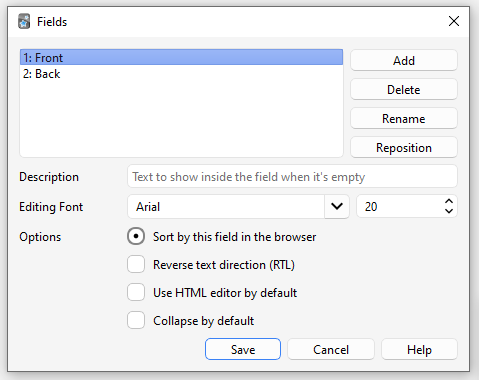
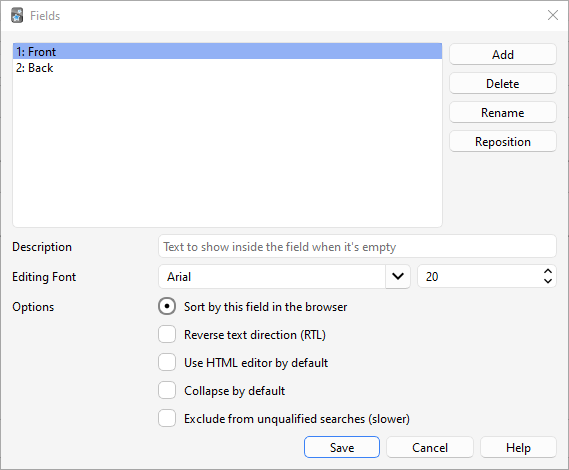
Some updates to 2.1.61, and other minor corrections.  (#134)
* Update getting-started.md

These basic definitions from stats.md should be here. Changed the old "unseen cards for "new cards".

* lists

* This section goes to getting-started#key concepts

* Add files via upload

* Added three screenshots

* mc

* simplifying and eliminating redundancies

* Add files via upload

* Add files via upload

* added some ss, eliminated redundancies, mc

* Add files via upload

* added ss, interçnal links and missing options.

* some internal links

* Add files via upload

* Update studying.md

The overview screen now shows how many cards will be buried.
https://github.com/ankitects/anki/releases/tag/2.1.50

* Add files via upload

Substitute with the same example deck

* Update studying.md

https://github.com/ankitects/anki/commit/2221d0a5206e61f36b618e957873508f493a487e

* Update src/getting-started.md

* Update src/studying.md

* mc

* 2.1.61 - New option

Moving the old text to a separate section makes sense now that this feature is optional. The link on the info box should also be updated.

* 2.1.61 - Buryng

https://github.com/ankitects/anki/releases/tag/2.1.61
Just copied the text on the info boxes here. Having this text also in the manual makes (IMO) sense because it's searchable, linkable and just helps to make the manual more comprehensive.

* 2.1.61 Updated screen

https://github.com/ankitects/anki/releases/tag/2.1.61

* 2.1.61 new option

https://github.com/ankitects/anki/commit/946eb468133af75e6ace83da8e2eeb701654a15b
[…]

diff --git a/src/deck-options.md b/src/deck-options.md
@@ -115,16 +115,6 @@ your review burden decreases. More than one Anki user has excitedly studied
 hundreds of new cards over their first few days of using the program, and then
 become overwhelmed by the reviews required.
 
-If using [the v3 scheduler](https://faqs.ankiweb.net/the-2021-scheduler.html#daily-limits),
-please keep in mind that the new count is capped by the review count. If your
-review limit is set to 200, and you have 190 reviews waiting, a maximum of 10
-new cards will be introduced. If your review limit has been reached, no new
-cards will be shown. If you have a backlog of reviews and still want to
-introduce new cards, you can do so by suspending the reviews, or increasing your
-review limit. That said, it is recommended you hold off on new cards until you
-catch up instead, as introducing more new cards when you're behind will only
-make the backlog worse.
-
 ### Maximum Reviews/Day
 
 Allows you to set an upper limit on the number of reviews to show each day.
@@ -144,6 +134,22 @@ limits on its parents or child decks are ignored.
 
 The v3 scheduler includes learning cards with a 1+ day delay in the review count,
 so those learning cards will be subject to the daily limit.
+
+### New cards ignore review limit
+
+If using [the v3 scheduler](https://faqs.ankiweb.net/the-2021-scheduler.html#daily-limits),
+please keep in mind that the new count is capped by the review count by default. If your
+review limit is set to 200, and you have 190 reviews waiting, a maximum of 10
+new cards will be introduced. If your review limit has been reached, no new
+cards will be shown. If you have a backlog of reviews and still want to
+introduce new cards, you can do so by suspending the reviews, or increasing your
+review limit. That said, it is recommended you hold off on new cards until you
+catch up instead, as introducing more new cards when you're behind will only
+make the backlog worse.
+
+From Anki 2.1.61 this feature is optional, and can be deactivated globally from the 
+deck options screen. 
+
 
 ### Per-Deck Daily Limits
 
@@ -370,8 +376,32 @@ of seconds you're taking to review each card.
 
 ## Burying
 
-Please see [this section](./studying.md#siblings-and-burying) for more information.
+### Bury new siblings
+Whether other new cards of the same note (eg reverse cards, adjacent cloze deletions) will be delayed until the next day.
 
+When Anki gathers cards, it first gathers intraday learning cards, then interday learning cards, then reviews, and finally new cards. This affects how burying works:
+
+- If you have all burying options enabled, the sibling that comes earliest in that list will be shown. For example, a review card will be shown in preference to a new card.
+- Siblings later in the list can not bury earlier card types. For example, if you disable burying of new cards, and study a new card, it will not bury any interday learning or review cards, and you may see both a review sibling and new sibling in the same session.
+
+### Bury review siblings
+Whether other review cards of the same note will be delayed until the next day.
+
+When Anki gathers cards, it first gathers intraday learning cards, then interday learning cards, then reviews, and finally new cards. This affects how burying works:
+
+- If you have all burying options enabled, the sibling that comes earliest in that list will be shown. For example, a review card will be shown in preference to a new card.
+- Siblings later in the list can not bury earlier card types. For example, if you disable burying of new cards, and study a new card, it will not bury any interday learning or review cards, and you may see both a review sibling and new sibling in the same session.
+
+### Bury interday learning siblings
+Whether other learning cards of the same note with intervals > 1 day will be delayed until the next day.
+
+When Anki gathers cards, it first gathers intraday learning cards, then interday learning cards, then reviews, and finally new cards. This affects how burying works:
+
+- If you have all burying options enabled, the sibling that comes earliest in that list will be shown. For example, a review card will be shown in preference to a new card.
+
+- Siblings later in the list can not bury earlier card types. For example, if you disable burying of new cards, and study a new card, it will not bury any interday learning or review cards, and you may see both a review sibling and new sibling in the same session.
+
+For more info about burying cards, please see [this section](./studying.md#siblings-and-burying) of the manual.
 
 ## Audio
 

diff --git a/src/stats.md b/src/stats.md
@@ -1,4 +1,4 @@
-# Graphs and Statistics
+# Card Info, Graphs and Statistics
 
 <!-- toc -->
 
@@ -7,6 +7,9 @@
 You can display information about a card by using the Cards&gt;Info menu item,
 by right-clicking on the card and then selecting **Info**, or by pressing
 <kbd>I</kbd> on the review screen.
+
+![Card Info](media/card_info.png)
+
 Most of the displayed information should be self-explanatory. A few notes:
 
 **Position**  
@@ -26,14 +29,22 @@ card with the "Good" button.
 ## Statistics
 
 The statistics window is accessed by clicking on **Stats** button at the
-top of the main window, or by pressing <kbd>T</kbd>. The statistics
-window will show statistics from the currently selected deck and any
-subdecks. If you select the checkbox "collection" at the top, statistics
-will be shown for your entire collection instead. You can also display graphs
+top of the main window, or by pressing <kbd>T</kbd>. 
+
+![Statistics screen](media/Statistics.png)
+
+## Selecting Decks / Collection
+
+### Deck. 
+By default, the statistics window will show statistics from the currently selected deck and any
+subdecks it may contain, but you can select any deck from your collection by typing its name in the 
+text box at the top of the screen or (from Anki 2.1.61), by using the deck selector at the bottom. 
+
+### Collection
+If you select this checkbox, statistics will be shown for your entire collection. You can also display graphs
 for arbitrary searches by adding filters in the search box at the top (2.1.28+).
 
-(Anki 2.1.28+ introduced redesigned graphs. The old graphs are currently still
-accessible with a <kbd>Shift</kbd>-click on the Stats button.)
+### History
 
 By default, Anki 2.1.28+ will show you statistics for the last 12 months.
 You can change this to all history scope or deck life scope at the top. (The
@@ -44,14 +55,18 @@ the previous month. You can change this to a year scope or deck life scope
 at the bottom. (Again, the “today” section at the top is unaffected
 by this selection.)
 
-Clicking on "Save PDF" at the bottom will save a PDF document of the statistics to a file
+### More
+- Clicking on "Save PDF" at the bottom will save a PDF document of the statistics to a file
 on your desktop to make it easy to share your statistics with others.
 
-When you delete notes, their review history is maintained in Anki. It
+- When you delete notes, their review history is maintained in Anki. It
 will not be included when looking at statistics for a specific deck (as
 Anki has no way of knowing which deck the deleted cards belonged to),
 but will be included when you look at statistics for the whole
 collection.
+
+- Anki 2.1.28+ introduced redesigned graphs. The old graphs are still
+accessible with a <kbd>Shift</kbd>-click on the Stats button.
 
 ## Today
 
@@ -94,6 +109,10 @@ Note that the forecast graph does not count reviews that are currently
 overdue, so if you have a large backlog, the overdue cards will not be
 displayed.
 
+**Calendar**
+This graph shows past card review activity. Hovering the mouse over a specific item
+allows you to view the number of revisions made that day. 
+
 **Reviews**  
 This graph counts the number of card reviews you have done. The bars may
 correspond to days, weeks, or months, depending on the time period
@@ -126,6 +145,10 @@ time below that point. The time scope has a different effect on this
 graph than other graphs: rather than changing which cards or period of
 studying is included, it limits how far out the intervals are displayed
 to (so 14-month intervals are not displayed at all on a 1-year graph).
+
+**Card Ease**
+This graph shows the number of cards that have a specific ease factor. 
+Average ease of the selected deck / collection is also displayed here. 
 
 **Hourly Breakdown**  
 This graph shows what percentage of total reviews you have passed (i.e.,

diff --git a/src/studying.md b/src/studying.md
@@ -10,14 +10,10 @@ to start studying.
 Study in Anki is limited to the currently selected deck as well as any
 subdecks it contains.
 
-On the decks screen, your decks and subdecks will be displayed in a list:
+On the decks screen, your decks and subdecks will be displayed in a list. [New, Learn and Due (To Review)](getting-started.md#types-of-cards) 
+cards for that day will be also displayed here. 
 
 ![Decks screen](media/decks_screen.png)
-
-There are three columns. 'New' is the number of new
-cards that are ready to be learnt that day. 'Learn' shows
-the number of cards currently in learning. 'Due' is the count of waiting
-reviews.
 
 When you click on a deck, it will become the 'current deck', and Anki
 will change to the study screen. You can return to the deck list to

diff --git a/src/editing.md b/src/editing.md
@@ -157,6 +157,10 @@ directly in HTML.
 - **Collapse by default**. Fields can be collapsed/expanded. 
 The animation can be disabled in the [preferences.](preferences.md)
 
+- **Exclude from unqualified searches (slower)** can be used if you want 
+the content of a certain field not to appear in unqualified [(not limited to a specific field)](searching.md#limiting-to-a-field)
+searches.  
+
 After you have added fields, you will probably want to add them to the front
 or back of your cards. For more information on that, please see the
 [templates](templates/intro.md) section.

diff --git a/src/preferences.md b/src/preferences.md
@@ -24,6 +24,9 @@ From 2.1.50+ there is an option to switch to day or night mode automatically.
 If you find that the interface elements are too small for you, you can 
 try to increase this setting.  
 
+**Reset Windows Sizes**
+This will reset all windows sizes and locations to the default settings. 
+
 **Video driver**  
 Anki's libraries need a video driver to draw content on the screen.
 Due to different hardware and software configurations, the driver that
